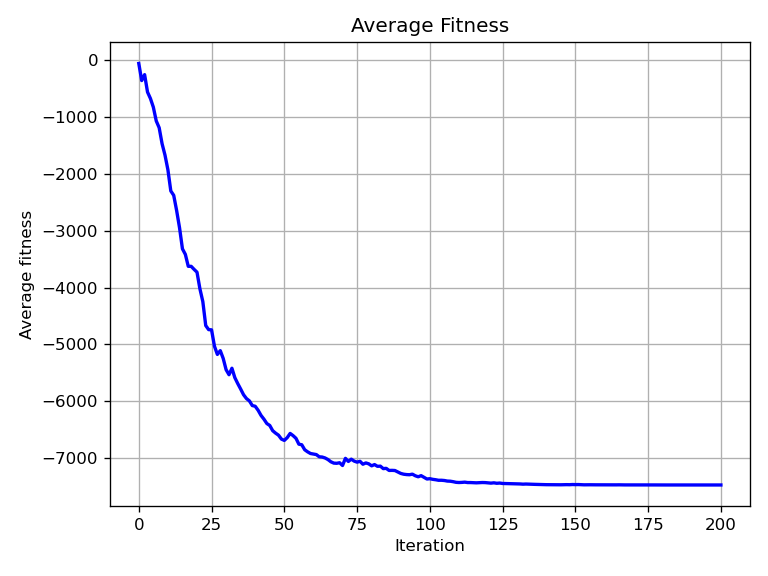
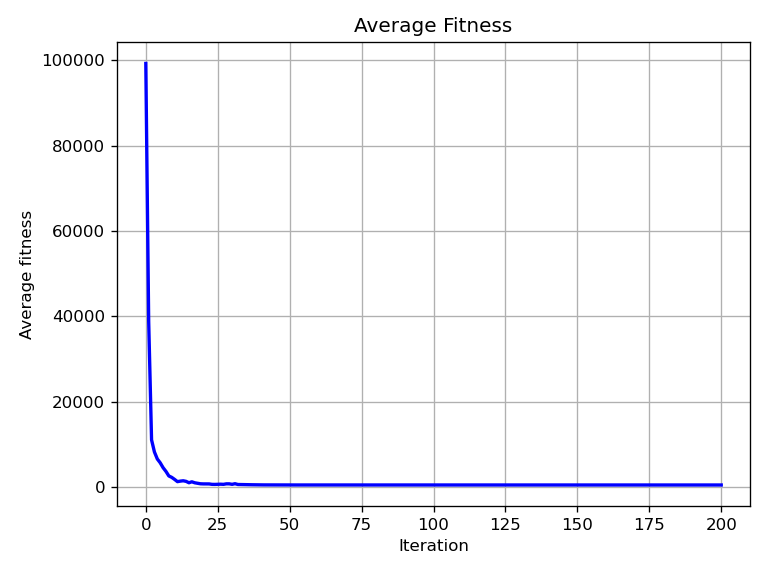
Some changes - this is everything TP1-4

diff --git a/interface_tp1/app.py b/interface_tp1/app.py
@@ -94,25 +94,21 @@ def save_plots(
     stagnation_iter=None,
     snap_first=None,
 ):
-
     import numpy as np
     import matplotlib.pyplot as plt
 
     # ==============================
     # 1 Convergence curve
     # ==============================
-
     plt.figure()
     plt.plot(curve, color="red", linewidth=2)
     plt.xlabel("Iteration")
     plt.ylabel("Best fitness")
     plt.title(f"{prefix} Convergence")
     plt.grid(True)
-
     if stagnation_iter is not None:
         plt.axvline(stagnation_iter, color="gray", linestyle="--", label="Stagnation")
         plt.legend()
-
     plt.tight_layout()
     plt.savefig("static/convergence.png", dpi=120)
     plt.close()
@@ -120,19 +116,15 @@ def save_plots(
     # ==============================
     # 2 Average fitness
     # ==============================
-
     if avg_curve is not None:
-
         plt.figure()
         plt.plot(avg_curve, color="blue", linewidth=2)
         plt.xlabel("Iteration")
         plt.ylabel("Average fitness")
         plt.title("Average Fitness")
         plt.grid(True)
-
         if stagnation_iter is not None:
             plt.axvline(stagnation_iter, color="gray", linestyle="--")
-
         plt.tight_layout()
         plt.savefig("static/avg_fitness.png", dpi=120)
         plt.close()
@@ -140,128 +132,119 @@ def save_plots(
     # ==============================
     # 3 Trajectory
     # ==============================
-
     if trajectory is not None:
-
         traj = np.array(trajectory)
-
         plt.figure()
-
         if traj.ndim == 2 and traj.shape[1] >= 2:
             plt.plot(traj[:, 0], label="x1")
             plt.plot(traj[:, 1], label="x2")
             plt.legend()
         else:
             plt.plot(traj)
-
         plt.xlabel("Iteration")
         plt.ylabel("Position")
         plt.title("Trajectory of first solution")
         plt.grid(True)
-
         if stagnation_iter is not None:
             plt.axvline(stagnation_iter, color="gray", linestyle="--")
-
         plt.tight_layout()
         plt.savefig("static/trajectory.png", dpi=120)
         plt.close()
 
     # ==============================
-    # 4 Search history (Contour)
+    # 4 Search history (Zoomed Contour)
     # ==============================
-
     if D < 2:
         return
 
-    # grid pour contour
-    resolution = 140
-    x_range = np.linspace(lb, ub, resolution)
-    y_range = np.linspace(lb, ub, resolution)
-
-    X, Y = np.meshgrid(x_range, y_range)
-
-    Z = np.zeros_like(X)
-
-    for i in range(resolution):
-        for j in range(resolution):
-
-            point = [X[i, j], Y[i, j]]
-
-            if D > 2:
-                point += [0] * (D - 2)
-
-            Z[i, j] = func(point)
-
-    # ==============================
-    # récupérer toutes les positions explorées
-    # ==============================
-
-    all_points = []
-
-    for iteration in all_positions:
-        for p in iteration:
-            all_points.append(p)
-
-    all_points = np.array(all_points)
-
-    # ==============================
-    # Best position history
-    # ==============================
-
+    # Fusion de toutes les positions pour calculer les limites du zoom
+    all_points = np.vstack(all_positions)
     hx = [p[0] for p in history]
     hy = [p[1] for p in history]
 
-    # ==============================
-    # Plot
-    # ==============================
+    # --- CALCUL DU ZOOM ---
+    # On définit les limites basées sur les points explorés + une marge de 10%
+    x_min, x_max = all_points[:, 0].min(), all_points[:, 0].max()
+    y_min, y_max = all_points[:, 1].min(), all_points[:, 1].max()
 
-    plt.figure(figsize=(7, 7))
+    pad_x = (x_max - x_min) * 0.1 if x_max != x_min else 1.0
+    pad_y = (y_max - y_min) * 0.1 if y_max != y_min else 1.0
 
-    # contour surface
-    plt.contourf(X, Y, Z, levels=40, cmap="YlGn", alpha=0.8)
-    plt.contour(X, Y, Z, levels=40, colors="gray", linewidths=0.4)
+    view_x = [max(lb, x_min - pad_x), min(ub, x_max + pad_x)]
+    view_y = [max(lb, y_min - pad_y), min(ub, y_max + pad_y)]
 
-    if len(all_points) > 0:
-        plt.scatter(
-            all_points[:, 0],
-            all_points[:, 1],
-            color="black",
-            s=6,
-            alpha=0.4,
-            label="Population search",
-        )
+    # Génération du contour sur la zone ZOOMÉE
+    resolution = 150
+    x_range = np.linspace(view_x[0], view_x[1], resolution)
+    y_range = np.linspace(view_y[0], view_y[1], resolution)
+    X, Y = np.meshgrid(x_range, y_range)
 
-    plt.scatter(hx, hy, color="orange", s=40, label="Best per iteration")
+    # Calcul de la fitness sur la grille
+    Z = np.zeros_like(X)
+    for i in range(resolution):
+        for j in range(resolution):
+            point = [X[i, j], Y[i, j]]
+            if D > 2:
+                point += [0] * (D - 2)
+            Z[i, j] = func(point)
 
-    plt.plot(hx, hy, color="orange", linewidth=1.5)
+    # --- PLOT ---
+    plt.figure(figsize=(8, 8))
 
-    plt.scatter(gbest[0], gbest[1], color="red", s=200, marker="*", label="Global best")
+    # Fond : Contour rempli fluide
+    cp = plt.contourf(X, Y, Z, levels=50, cmap="YlGnBu", alpha=0.7)
+    plt.colorbar(cp, label="Fitness Value")
+    plt.contour(X, Y, Z, levels=20, colors="black", linewidths=0.1, alpha=0.5)
 
+    # Population : petits points noirs
+    plt.scatter(
+        all_points[:, 0],
+        all_points[:, 1],
+        color="black",
+        s=3,
+        alpha=0.2,
+        label="Population search",
+    )
+
+    # Historique du Best : ligne orange
+    plt.plot(hx, hy, color="orange", linewidth=1, alpha=0.8, zorder=3)
+    plt.scatter(hx, hy, color="orange", s=15, label="Iter. Best", zorder=3)
+
+    # Global Best : Grosse étoile rouge
+    plt.scatter(
+        gbest[0],
+        gbest[1],
+        color="red",
+        s=250,
+        marker="*",
+        edgecolors="white",
+        label="Global best",
+        zorder=5,
+    )
+
+    # Marqueur de stagnation
     if stagnation_iter is not None and stagnation_iter < len(hx):
-
         plt.scatter(
             hx[stagnation_iter],
             hy[stagnation_iter],
-            color="purple",
-            s=160,
-            marker="D",
-            label="Stagnation",
+            color="magenta",
+            s=150,
+            marker="X",
+            edgecolors="black",
+            label="Stagnation point",
+            zorder=4,
         )
 
-    plt.xlim(lb, ub)
-    plt.ylim(lb, ub)
-
+    plt.xlim(view_x[0], view_x[1])
+    plt.ylim(view_y[0], view_y[1])
     plt.xlabel("x1")
     plt.ylabel("x2")
-
-    plt.title(f"Search History ({prefix})")
-
-    plt.legend()
-
+    plt.title(f"Search History Zoomed ({prefix})")
+    plt.legend(loc="upper right", fontsize="small")
     plt.tight_layout()
 
+    # DPI=200 pour une netteté maximale au frontend
     plt.savefig("static/search_history_contour.png", dpi=200)
-
     plt.close()
 
 
@@ -428,72 +411,66 @@ def _pso_single_run(func, D, lb, ub, T, N, w, c1, c2):
     P = np.random.uniform(lb, ub, (N, D))
     V = np.zeros((N, D))
     fitness = np.array([func(P[i]) for i in range(N)])
+
     best_idx = np.argmin(fitness)
     x_star = P[best_idx].copy()
     x_star_fit = fitness[best_idx]
+
     pbest = P.copy()
     pbest_fit = fitness.copy()
-    snap_first = P.copy()
+
     first_position = x_star.copy()
+    snap_first = P.copy()
+
     curve = [float(x_star_fit)]
     avg_curve = [float(np.mean(fitness))]
     all_positions = [P.copy()]
     history = [(float(x_star[0]), float(x_star[1]))] if D >= 2 else []
     trajectory = [P[0].copy()]
+
     stagnation_iter = None
     stagnation_count = 0
-    prev_best = x_star.copy()
-    prev_best_fit = x_star_fit  # On suit la fitness
     t = 0
 
-    while True:
+    while t < T:
         for i in range(N):
-            if not np.array_equal(x_star, P[i]):
-                for j in range(D):
-                    r1 = np.random.uniform(0, 1)
-                    r2 = np.random.uniform(0, 1)
-                    V[i, j] = (
-                        w * V[i, j]
-                        + c1 * r1 * (pbest[i, j] - P[i, j])
-                        + c2 * r2 * (x_star[j] - P[i, j])
-                    )
-                    V[i, j] = np.clip(V[i, j], -v_max, v_max)
-                    P[i, j] = np.clip(P[i, j] + V[i, j], lb, ub)
-        fitness = np.array([func(P[i]) for i in range(N)])
+            r1, r2 = np.random.rand(2)
+            V[i] = w * V[i] + c1 * r1 * (pbest[i] - P[i]) + c2 * r2 * (x_star - P[i])
+            V[i] = np.clip(V[i], -v_max, v_max)
+            P[i] = np.clip(P[i] + V[i], lb, ub)
 
-        # Mise à jour du gbest
-        current_best_idx = np.argmin(fitness)
-        if fitness[current_best_idx] < x_star_fit:
-            x_star_fit = fitness[current_best_idx]
-            x_star = P[current_best_idx].copy()
-            stagnation_count = 0  # On a trouvé mieux, on reset
-        else:
-            stagnation_count += 1  # Pas d'amélioration
+            # Calcul fitness
+            current_fit = func(P[i])
 
-        # Enregistrement de la première stagnation
-        if stagnation_count >= 30 and stagnation_iter is None:
+            # Update pbest
+            if current_fit < pbest_fit[i]:
+                pbest_fit[i] = current_fit
+                pbest[i] = P[i].copy()
+
+            # Update gbest
+            if current_fit < x_star_fit:
+                x_star_fit = current_fit
+                x_star = P[i].copy()
+                stagnation_count = 0  # Reset si amélioration
+            else:
+                stagnation_count += 1
+
+        # Détection stagnation (ex: après 30 itérations sans amélioration réelle)
+        if stagnation_count > (N * 20) and stagnation_iter is None:
             stagnation_iter = t
 
-        for i in range(N):
-            if x_star_fit > fitness[i]:
-                x_star = P[i].copy()
-                x_star_fit = fitness[i]
-            if pbest_fit[i] > fitness[i]:
-                pbest[i] = P[i].copy()
-                pbest_fit[i] = fitness[i]
         t += 1
 
-        if stagnation_count >= 50:  # Seuil d'arrêt anticipé
-            break
-
+        # Sauvegarde des données
         curve.append(float(x_star_fit))
-        avg_curve.append(float(np.mean(fitness)))
+        avg_curve.append(float(np.mean([func(p) for p in P])))
         all_positions.append(P.copy())
         if D >= 2:
             history.append((float(x_star[0]), float(x_star[1])))
         trajectory.append(P[0].copy())
 
-        if t >= T or stagnation_count >= 30:
+        # Sortie si stagnation trop longue
+        if stagnation_count > (N * 50):
             break
 
     return {
